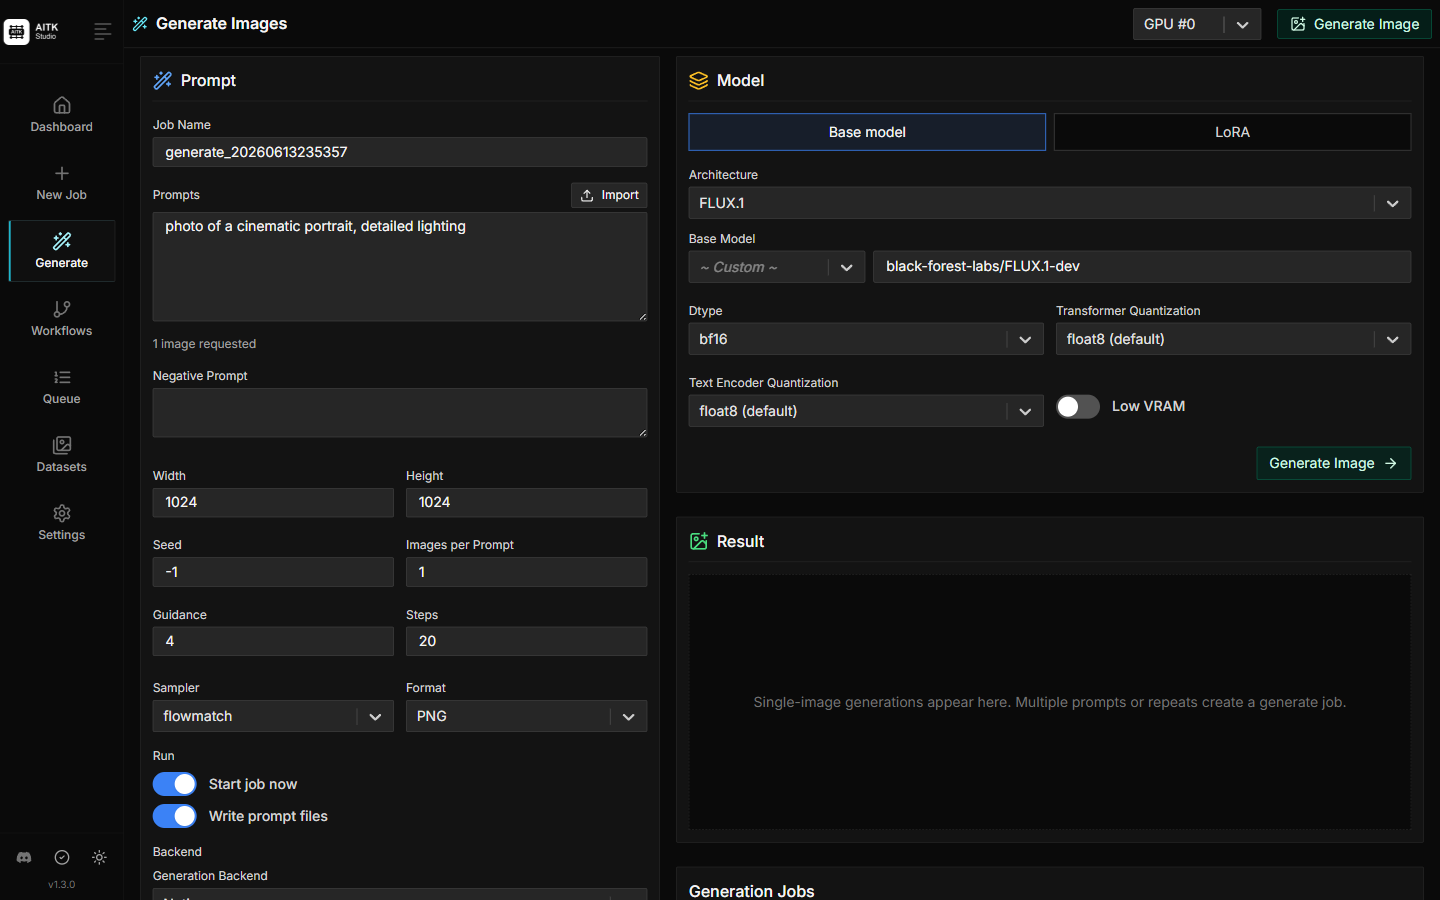
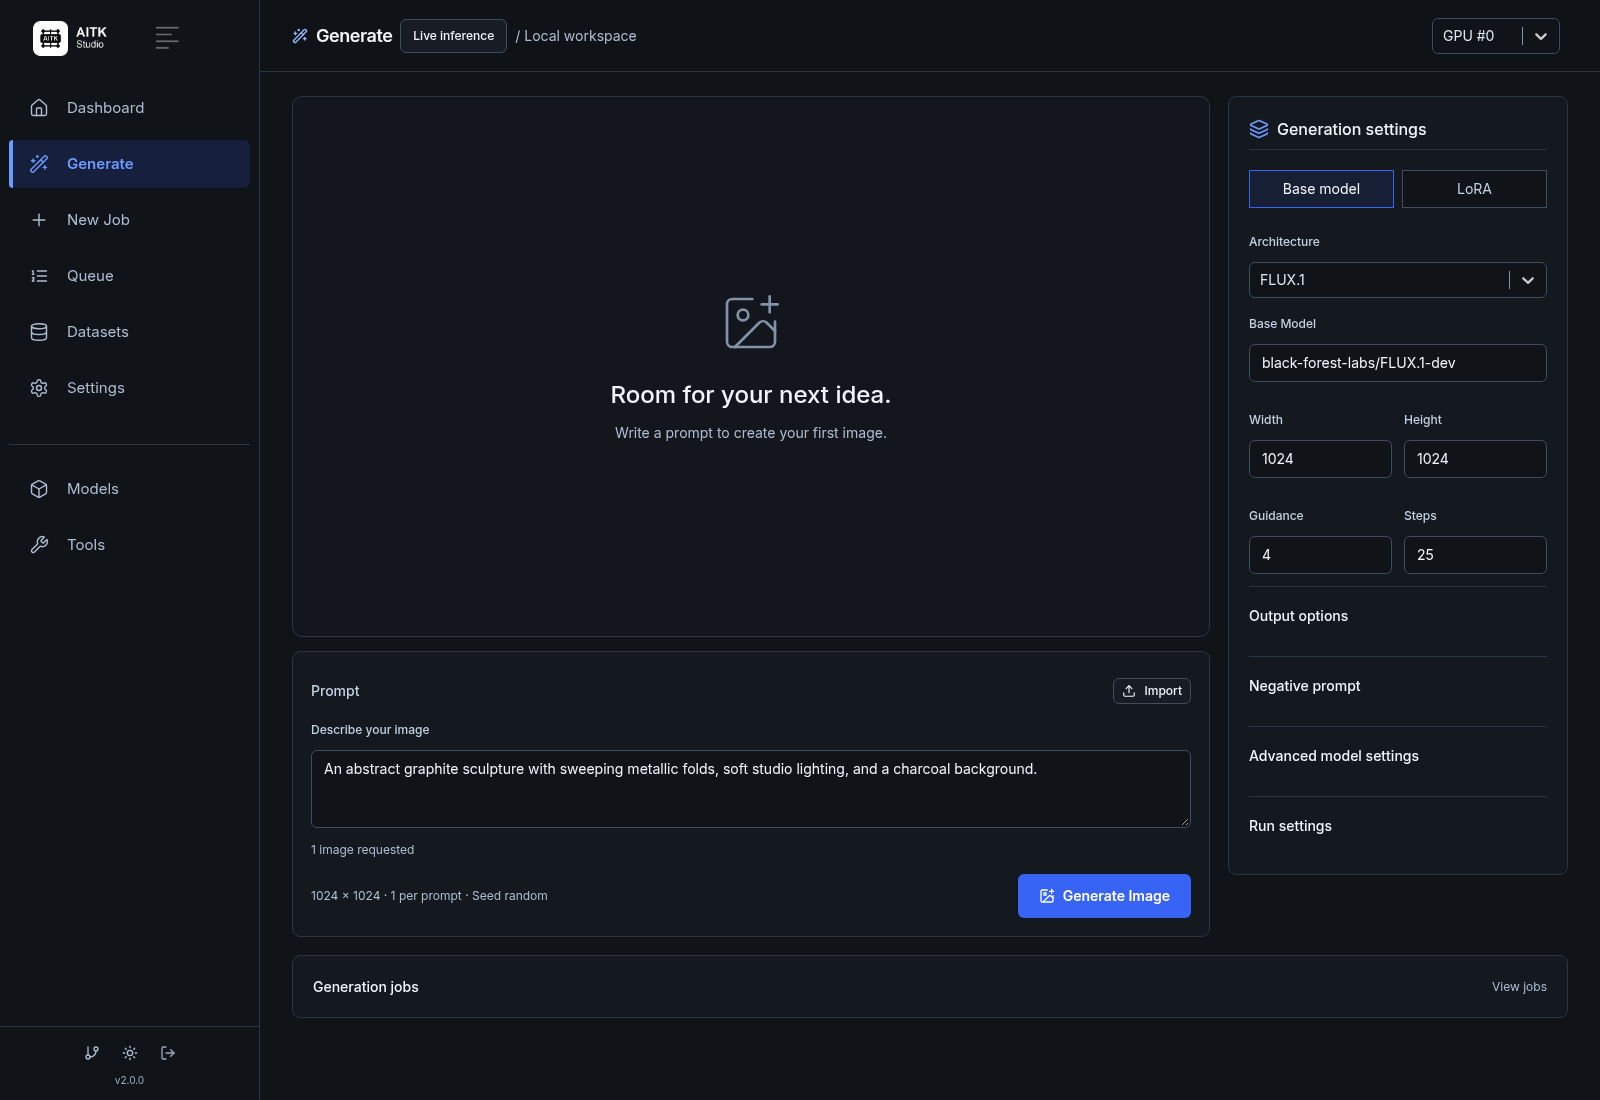
Refresh documentation screenshots from the current studio UI

diff --git a/README.md b/README.md
@@ -23,6 +23,12 @@
 | :---: | :---: |
 | [![Guided training job setup](assets/readme-ui-new-job.png)](assets/readme-ui-new-job.png) | [![Image generation with a base model or LoRA](assets/readme-ui-generate.png)](assets/readme-ui-generate.png) |
 
+| Edit in Caption Studio | Compose with Ideogram Regions |
+| :---: | :---: |
+| [![Caption Studio with a demo image and editable caption](assets/readme-ui-caption-studio.png)](assets/readme-ui-caption-studio.png) | [![Ideogram region composition and selected text element](assets/readme-ui-workflow-builder.png)](assets/readme-ui-workflow-builder.png) |
+
+Screenshots show the running UI with demo data. GPU availability is simulated for setup; no training or generation was run, and external ComfyUI is disconnected.
+
 - **Prepare your data.** Organize datasets, edit captions, and combine datasets for training.
 - **Train your way.** Run LoRA, LoKr, or supported full fine-tunes, locally or on remote workers.
 - **Review and create.** Track runs, compare samples, generate images, and export jobs from one library.
